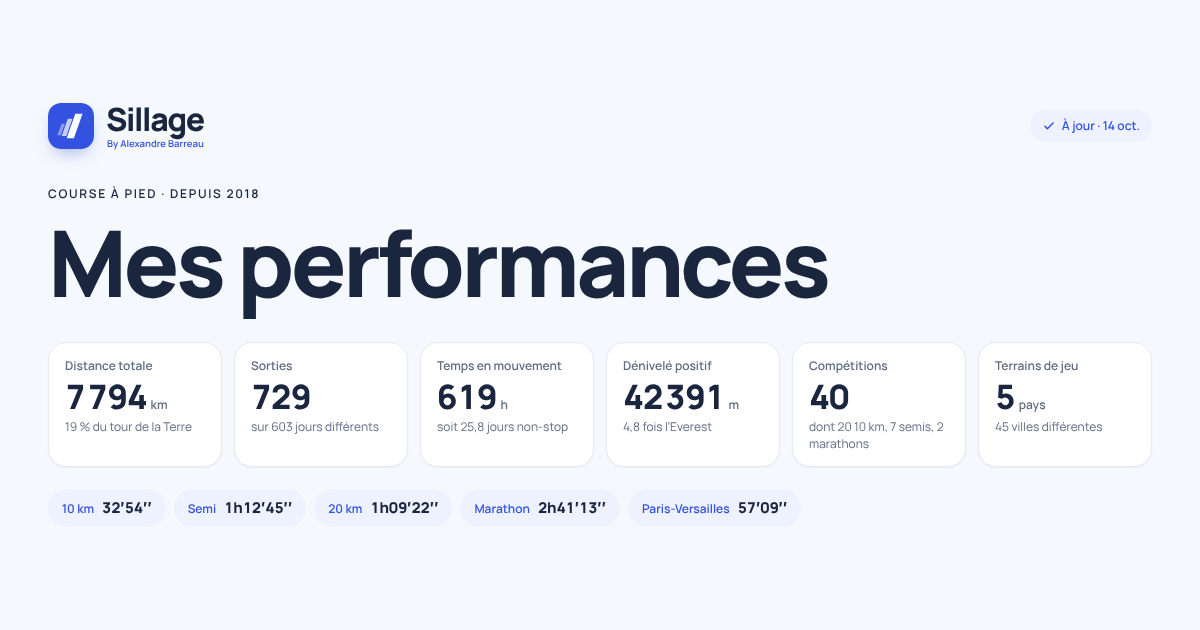
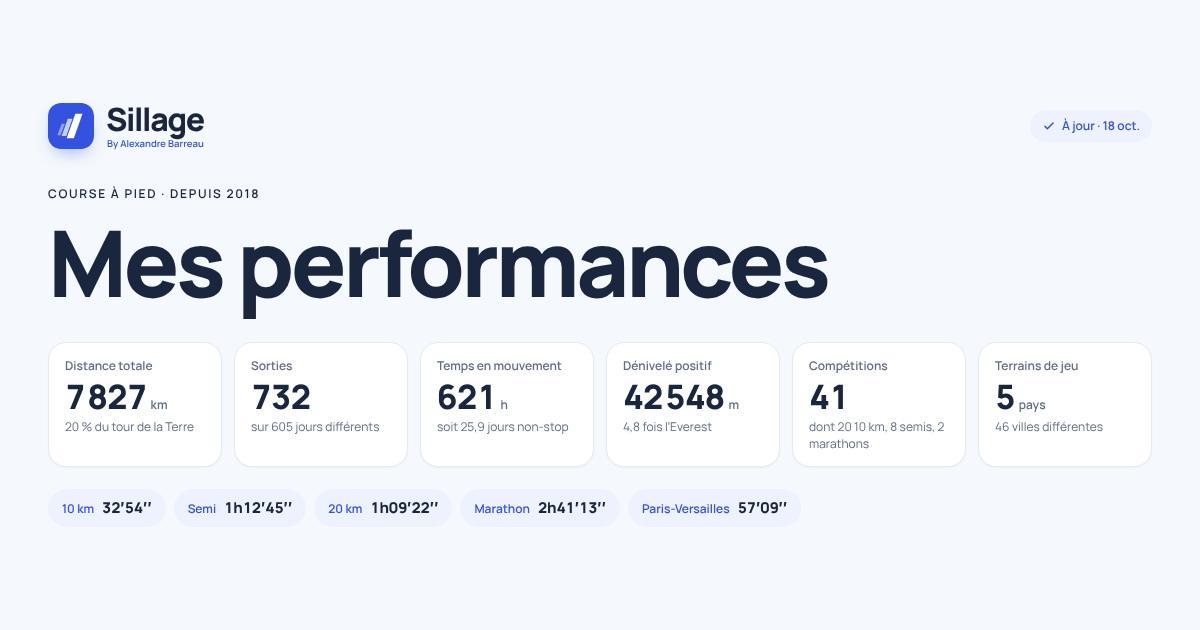
Synchro Strava du 2026-10-18
- 2 nouvelle(s) activité(s) : 2026-10-18 Morning Run, 2026-10-18 Semi de Rome 2026
- 2 sortie(s) avec cardio ajoutée(s)
- tours et records de 2 sortie(s) (114/732 complètes)
- segments de 2 sortie(s) (114/732 complètes)
- 2 tracé(s) GPS (721 au total)
- compétition(s) ajoutée(s) : Semi de Rome (Semi)

Analyse : Vérification horaire : Semi de Rome ajouté (titre explicite, calendrier, chrono officiel 1h13'06" dans la description). Le Morning Run de 1,4 km juste avant est l'échauffement, pas une compétition.

diff --git a/sync/journal.md b/sync/journal.md
@@ -2,6 +2,7 @@
 
 Une ligne par synchro, la plus récente en haut.
 
+- 2026-10-18 10:15 · 2 nouvelle(s) activité(s) : 2026-10-18 Morning Run, 2026-10-18 Semi de Rome 2026 ; 2 sortie(s) avec cardio ajoutée(s) ; tours et records de 2 sortie(s) (114/732 complètes) ; segments de 2 sortie(s) (114/732 complètes) ; 2 tracé(s) GPS (721 au total) ; compétition(s) ajoutée(s) : Semi de Rome (Semi) · Vérification horaire : Semi de Rome ajouté (titre explicite, calendrier, chrono officiel 1h13'06" dans la description). Le Morning Run de 1,4 km juste avant est l'échauffement, pas une compétition.
 - 2026-10-18 02:08 · tours et records de 20 sortie(s) (112/730 complètes) ; segments de 20 sortie(s) (112/730 complètes) · Aucune nouvelle sortie. Seule compétition de la fenêtre : 20 km de Paris (11/10), inchangée, la description ne donne ni chrono officiel ni classement. Les autres sorties sont des footings ou des séances.
 - 2026-10-17 02:08 · tours et records de 20 sortie(s) (92/730 complètes) ; segments de 20 sortie(s) (92/730 complètes) · Aucune nouvelle sortie. Seule compétition de la fenêtre : 20 km de Paris (11/10), inchangée ; la description ne donne ni chrono officiel ni classement. Les autres sorties sont des footings/séances.
 - 2026-10-16 02:09 · 1 activité(s) mise(s) à jour ; tours et records de 7 sortie(s) (72/730 complètes) ; segments de 20 sortie(s) (72/730 complètes) · Aucune nouvelle sortie ; seul le 20 km de Paris du 11/10 est une compétition, inchangé (pas de chrono officiel ni de classement dans la description).
